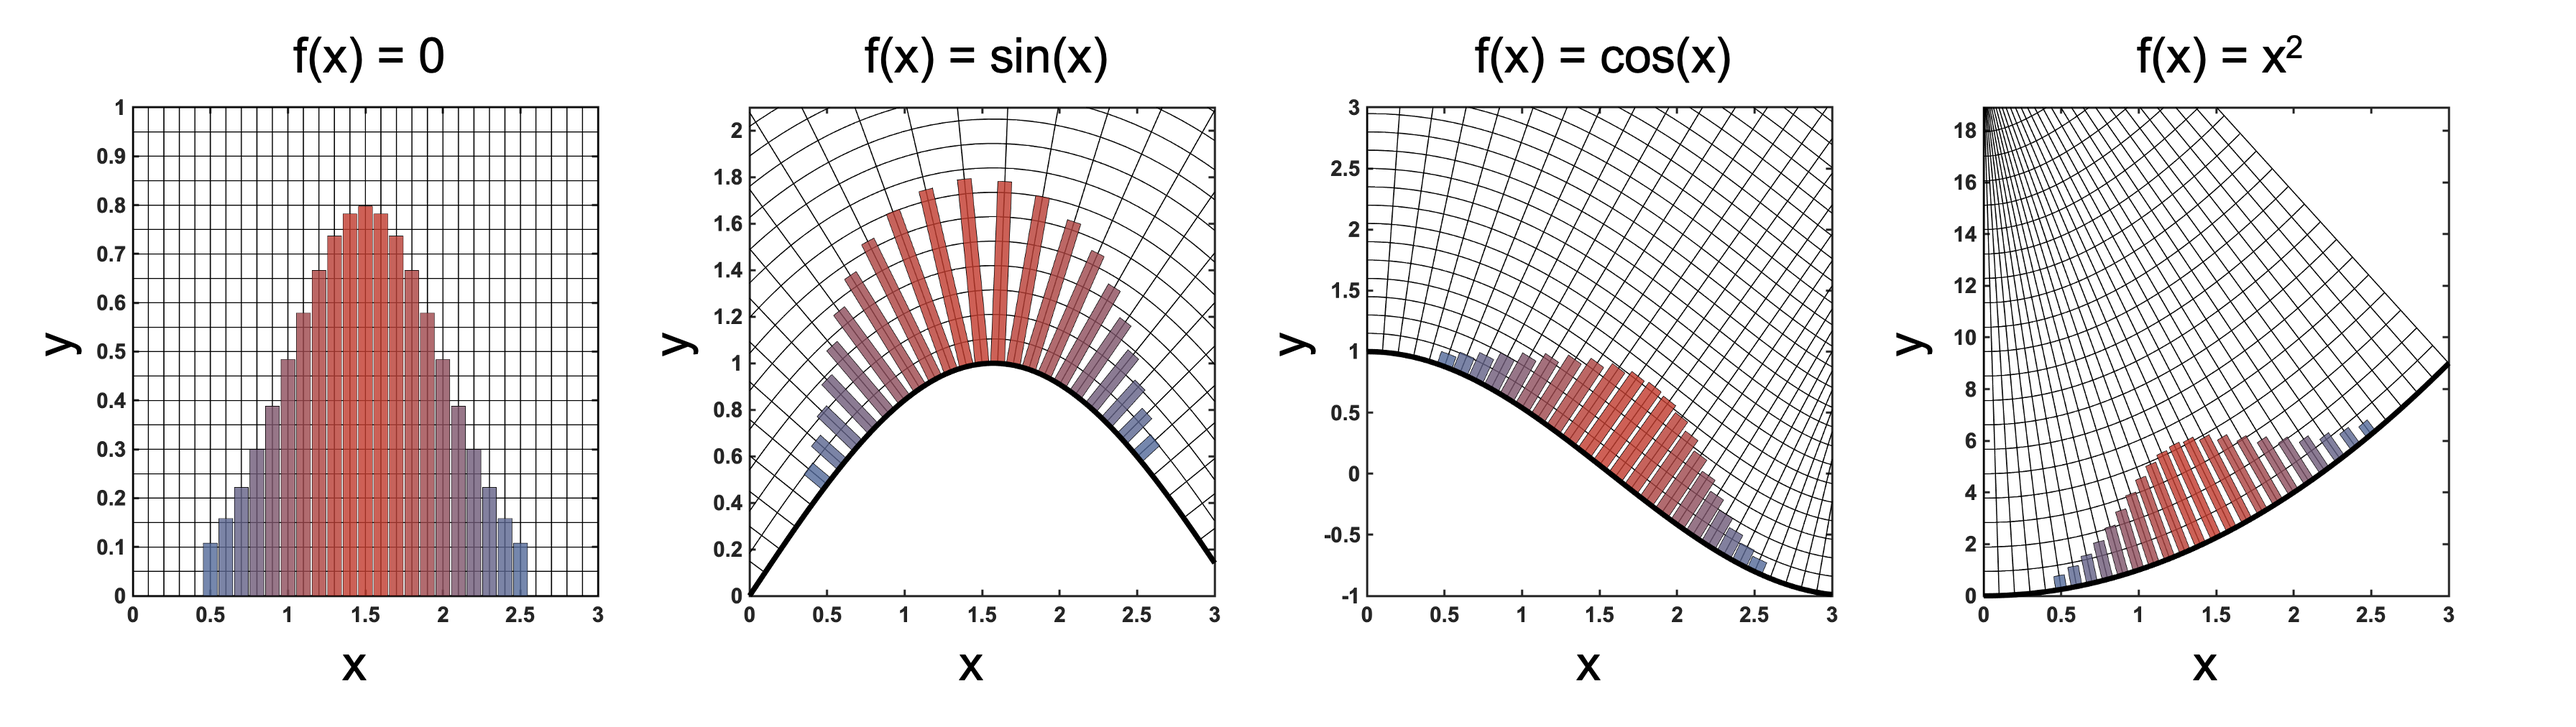
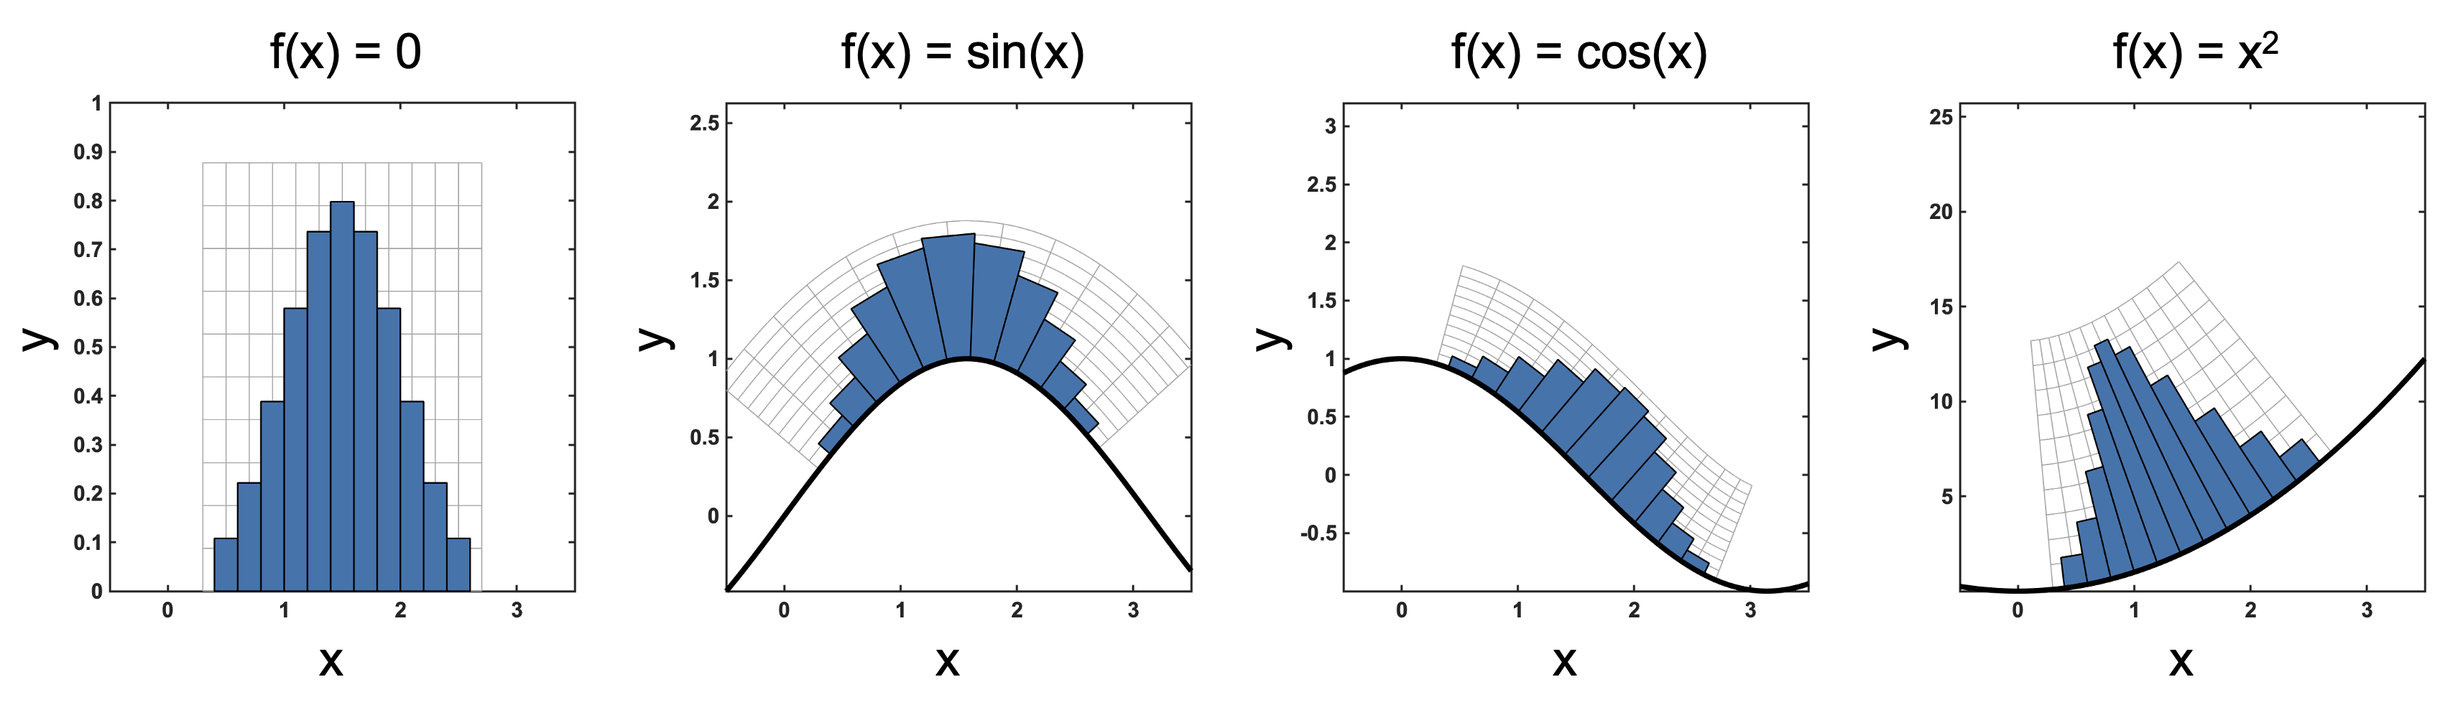
updated MATLAB curvogram's gridlines to match Python curvogram's gridlines

diff --git a/MATLAB/curvogram.m b/MATLAB/curvogram.m
@@ -13,6 +13,9 @@ function [] = curvogram(X,Y,f,fprime,varargin)
 %           'YLimits' - y axis limits ( e.g. [0, 1] )
 %           'BinWidth' - usually between 0 and 1 (default:0.9)
 %           'ScaleHeight' - 1 is default
+%           'Color' - bin color
+%           'FaceAlpha' - alpha value (opacity) of bins
+%           'SkewBins' - true or false (false = straight, parallel lines)
 %       
 %       example:
 %           X = ......
@@ -25,8 +28,6 @@ figure_number=h.Number;
 figure(figure_number); hold on;
 
 
-
-
 %% assert length(X) == length(Y):
 errorMsg1 = 'X and Y must be the same length.'; 
 XYLength = @(x,y) assert(length(x)==length(y),errorMsg1);
@@ -37,11 +38,13 @@ XYLength(X,Y);
 p = inputParser; 
 
 %% set default values:
-BinWidth = 0.9;
+BinWidth = 1;
 ScaleHeight=1;
+Color = [0.2188,0.4531,0.6914]; % default is blue
+FaceAlpha = 1.0;
 
 % set a buffer on default xlimits:
-xlimits = [min(X) - (max(X)-min(X))*0.25, max(X) + (max(X)-min(X))*0.25];
+xlimits = [min(X) - (max(X)-min(X))*0.5, max(X) + (max(X)-min(X))*0.5];
 
 % function values:
 x= xlimits(1):((xlimits(2)-xlimits(1))/100):xlimits(end);
@@ -57,6 +60,7 @@ end
 addParameter(p,'XLimits',xlimits);
 addParameter(p,'YLimits',ylimits);
 
+SkewBins=true;
 
 
 % read in optional parameters
@@ -71,22 +75,23 @@ for param = 1:1:(nParams/2)
         ScaleHeight=varargin{index+1};
     elseif strcmp(varargin{index}, 'BinWidth')
         BinWidth=varargin{index+1};
+    elseif strcmp(varargin{index},'SkewBins')
+        SkewBins=varargin{index+1};
+    elseif strcmp(varargin{index},'Color')
+        Color=varargin{index+1};
+    elseif strcmp(varargin{index},'FaceAlpha')
+        FaceAlpha=varargin{index+1};
     end
 end
 
 
-
-
-
 % add gridlines at same locations as the histogram:
-addGridlines(X,f,fprime,xlimits,ylimits);
-
-
+addGridlines(X,Y,f,fprime,xlimits,ylimits,ScaleHeight);
 
 % plot function for full range:
 plot(x,y,'-k','LineWidth',5); hold on;
 
-custom_histogram(f,fprime,X,Y,xlimits,ylimits,BinWidth,ScaleHeight);
+custom_histogram(f,fprime,X,Y,xlimits,ylimits,BinWidth,ScaleHeight,SkewBins,Color,FaceAlpha);
 
 
 xlim(xlimits);
@@ -96,35 +101,29 @@ end
 
 
 %% add gridlines
-function [] = addGridlines(X,f,fprime,xlimits,ylimits)
+function [] = addGridlines(X,Y,f,fprime,xlimits,ylimits,ScaleHeight)
 
     SCALE = diff(xlimits)/diff(ylimits);
 
-    % d:= max distance of any line w/ axis scale limits:
-    d = sqrt((xlimits(2) - xlimits(1)).^2 + (ylimits(2) - ylimits(1)).^2);
-
-
-    % assume 20 grid lines:
-    GL = 20;
-    xStepSmall = (xlimits(2)-xlimits(1))/(GL*5);
-
-    xVecFine = xlimits(1): xStepSmall : xlimits(2);
-    yVec = 0 : ((ylimits(2))/GL) : d;
+    d = (max(Y)*ScaleHeight)*1.1;    
 
     % place gridlines on "X" vals, plus more on either side:
     xStep = mean(min(diff(X),max(diff(X)))); % average step size of "X"
-    x_left = X(1):-xStep:xlimits(1);
-    x_left = fliplr(x_left);
-    x_right = X(end):xStep:xlimits(2);
+    xVecCoarse = [X(1)-xStep,X,X(end)+xStep];
 
-    xVecCoarse = [x_left(1:end-1),X,x_right(2:end)];
+    % assume 10 grid lines:
+    xStepSmall = (xVecCoarse(end)-xVecCoarse(1))/(200);
+    xVecFine = xVecCoarse(1): xStepSmall : xVecCoarse(end);
+    yVec = 0 : (d/10) : d;
 
+
+    gray = [227,227,227]/350;
 
     %% add vertical lines:
     for x = xVecCoarse
         point=[x,d]; % coordinates in transformed system
         P=coord_transform(point,SCALE,f,fprime);
-        plot([x,P(1)],[f(x),P(2)],'-k','LineWidth',1); hold on;
+        plot([x,P(1)],[f(x),P(2)],'-','LineWidth',1,'Color',gray); hold on;
     end
     
     % spacing of horizontal lines:
@@ -144,12 +143,9 @@ function [] = addGridlines(X,f,fprime,xlimits,ylimits)
                 line_y=[line_y,P2(2)];
             end 
         end
-        plot(line_x,line_y,'-k','LineWidth',1); hold on;
+        plot(line_x,line_y,'-','LineWidth',1,'Color',gray); hold on;
     
     end
-
-
-    
 
     xlim(xlimits);
     ylim(ylimits);
@@ -170,8 +166,8 @@ end
 
 
 
-
-function [] = custom_histogram(f,fprime,x_values,y_values,xlimits,ylimits,BinWidth,ScaleHeight)
+%% add polygons at each y location
+function [] = custom_histogram(f,fprime,X,Y,xlimits,ylimits,BinWidth,ScaleHeight,SkewBins,Color,FaceAlpha)
 
     % colors:
     red = [0.84,0.18,0.14];
@@ -180,41 +176,67 @@ function [] = custom_histogram(f,fprime,x_values,y_values,xlimits,ylimits,BinWid
     % helper values
     SCALE = diff(xlimits)/diff(ylimits);
     margin = 1-BinWidth;% default is 0.1;
-    delta_x = x_values(2) - x_values(1);
+    delta_x = X(2) - X(1);
     w = delta_x*(1-margin);
 
 
     i=1;
-    for xVal = x_values
+    for xVal = X
 
-        h=y_values(i)*ScaleHeight;
+        h=Y(i)*ScaleHeight;
         theta1 = atan2(fprime(xVal), 1/SCALE);        
 
         %% plot line only:
         bottom = coord_transform([xVal,0],SCALE,f,fprime); % bottom
         top = coord_transform([xVal,h],SCALE,f,fprime); % top
 
-
+        % find corners if SkewBins is true:
+        
         % bottom left:
-        x2 = bottom(1) - (w/2)*cos(theta1);
-        y2 = bottom(2) - (1/SCALE)*(w/2)*sin(theta1);
+        BL = coord_transform([xVal-w/2,0],SCALE,f,fprime);
+        x2 = BL(1);
+        y2 = BL(2);
 
         % bottom right:
-        x3 = bottom(1) + (w/2)*cos(theta1);
-        y3 = bottom(2) + (1/SCALE)*(w/2)*sin(theta1);
+        BR = coord_transform([xVal+w/2,0],SCALE,f,fprime);
+        x3 = BR(1);
+        y3 = BR(2);
 
         % top right:
-        x4 = top(1) + (w/2)*cos(theta1);
-        y4 = top(2) + (1/SCALE)*(w/2)*sin(theta1);
+        TR = coord_transform([xVal+w/2,h],SCALE,f,fprime);
+        x4 = TR(1);
+        y4 = TR(2);
 
         % top left:
-        x1 = top(1) - (w/2)*cos(theta1);
-        y1 = top(2) - (1/SCALE)*(w/2)*sin(theta1);
+        TL = coord_transform([xVal-w/2,h],SCALE,f,fprime);
+        x1 = TL(1);
+        y1 = TL(2);
+
+        if (~SkewBins)
+            % bottom left:
+            x2 = bottom(1) - (w/2)*cos(theta1);
+            y2 = bottom(2) - (1/SCALE)*(w/2)*sin(theta1);
+    
+            % bottom right:
+            x3 = bottom(1) + (w/2)*cos(theta1);
+            y3 = bottom(2) + (1/SCALE)*(w/2)*sin(theta1);
+    
+            % top right:
+            x4 = top(1) + (w/2)*cos(theta1);
+            y4 = top(2) + (1/SCALE)*(w/2)*sin(theta1);
+    
+            % top left:
+            x1 = top(1) - (w/2)*cos(theta1);
+            y1 = top(2) - (1/SCALE)*(w/2)*sin(theta1);
+        end
         
         if (h>0)    
             pgon = polyshape([x1,x2,x3,x4],[y1,y2,y3,y4]);hold on;
-            c = (red-blue).*(h/(max(y_values)*ScaleHeight)) + blue;
-            plot(pgon,'FaceAlpha',0.8,'FaceColor',c);
+            c = (red-blue).*(h/(max(Y)*ScaleHeight)) + blue;
+            if ~isnan(Color)
+                c=Color;
+            end
+            plot(pgon,'FaceAlpha',FaceAlpha,'FaceColor',c,'LineWidth',1.5);
         end
 
         % plot function for full range:

diff --git a/MATLAB/example.m b/MATLAB/example.m
@@ -1,7 +1,7 @@
 clc;clear;close all;
 
 % bins of histogram (also used for curvogram)
-X = 0.5:0.1:2.5;
+X = 0.5:0.2:2.5;
 
 % normal distribution:
 mu = 1.5; sigma = 0.5;
@@ -15,32 +15,28 @@ fprime = @(x) 0;
 figure(1);
 curvogram(X,Y,f,fprime);
 
-%% example 2: cos(x)
+%% example 2: sin(x)
 f = @(x) sin(x);
 fprime = @(x) cos(x);
 
 figure(2);
-curvogram(X,Y,f,fprime);
+curvogram(X,Y,f,fprime,'ScaleHeight',1,'BinWidth',1,'Color',blue());
 
 
-%% example 2: cos(x)
+%% example 3: cos(x)
 f = @(x) cos(x);
 fprime = @(x) -sin(x);
 
 figure(3);
-curvogram(X,Y,f,fprime,'XLimits',[0, 3], 'YLimits',[-1, 3],'ScaleHeight',1,'BinWidth',1);
+curvogram(X,Y,f,fprime,'ScaleHeight',1,'BinWidth',1);
 
 
-%% example 3: x.^2
+%% example 4: x.^2
 f = @(x) x.^2;
 fprime = @(x) 2*x;
 
 figure(4);
-curvogram(X,Y,f,fprime,'ScaleHeight',5,'BinWidth',0.7);
-
-
-
-
+curvogram(X,Y,f,fprime,'ScaleHeight',15,'BinWidth',1);
 
 
 
